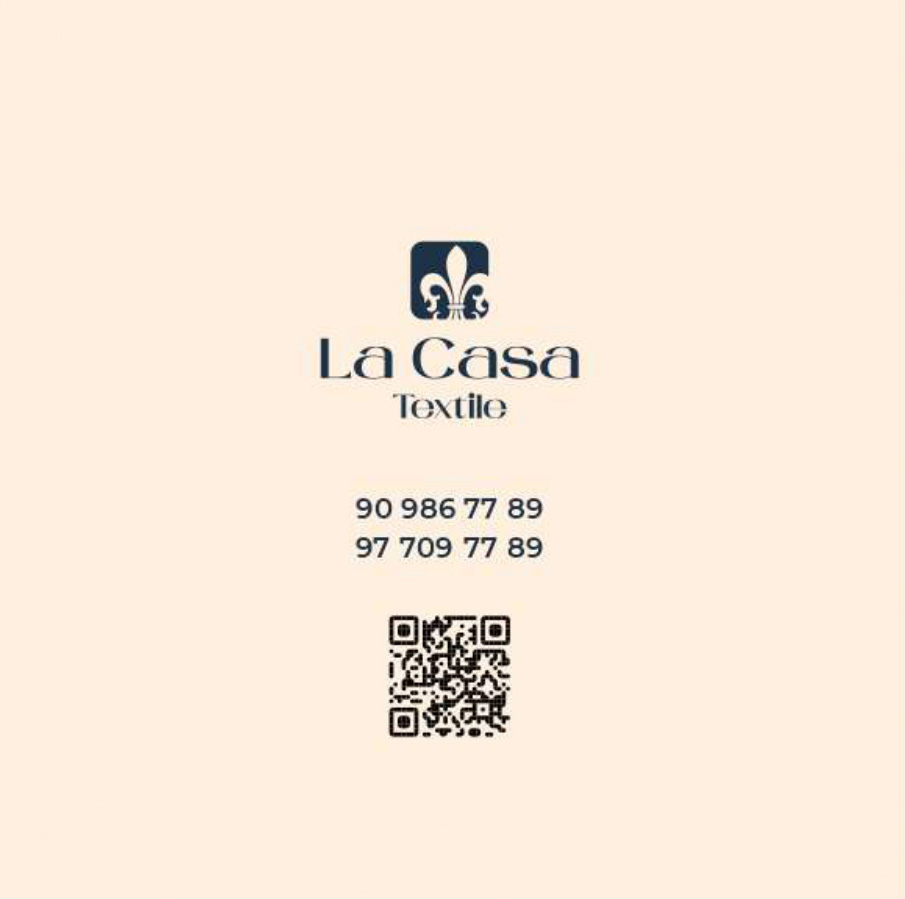
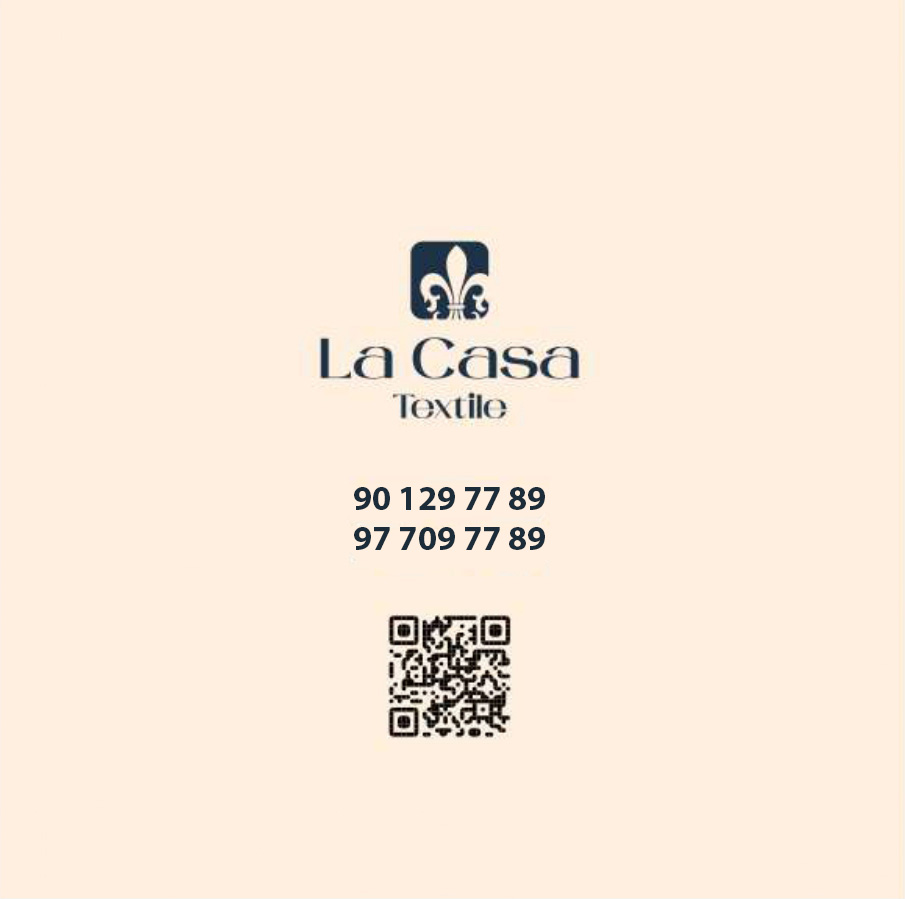
Update footer contacts and socials languages

Changed region(s): [[0.3713, 0.5295, 0.6188, 0.6229]]

diff --git a/lib/i18n/ru.ts b/lib/i18n/ru.ts
@@ -54,7 +54,7 @@ cornices_text:
   "Мы создаём карнизы и жалюзи на заказ, учитывая архитектуру помещения, стиль интерьера и требования к освещению. Карнизы изготавливаются по индивидуальным размерам, обеспечивают бесшумное скольжение штор и становятся аккуратной частью декора. Жалюзи подбираем по фактуре, плотности и дизайну — от классических моделей до современных решений, которые надёжно защищают от света и подчёркивают атмосферу пространства.",
 
 cornices_btn_collection: "Посмотреть коллекцию тканей",
-entertainment_title: "Премиальные решения для развлечений и отдыха",
+entertainment_title: "Премиальные решения для интерьера",
 
 entertainment_text:
   "Оцените стильные и функциональные интерьерные решения, создающие уют и атмосферу в жилых и коммерческих пространствах.",
@@ -64,18 +64,18 @@ clients_text:
   "Мы создаём текстиль для премиальных интерьеров: частных домов, резиденций, квартир и современных коммерческих пространств. Клиенты выбирают Textile LaCasa за стиль, аккуратность и высокий уровень сервиса.",
 
 review_1_text:
-  "Заказывали текстиль для гостиной и спальни. Команда LaCasa предложила потрясающий подбор тканей — интерьер преобразился полностью.",
-review_1_author: "Элина Самойлова",
+  "Хочу выразить искреннюю благодарность за профессиональный подход и внимательное отношение. Работа была выполнена качественно, в срок и с учётом всех пожеланий. Очень довольна результатом и с уверенностью рекомендую.",
+review_1_author: "Лобар К.",
 review_1_role: "Частный клиент",
 
 review_2_text:
-  "Очень понравился подход дизайнеров. Все материалы премиальные, монтаж выполнен аккуратно и без спешки. Результат впечатляет.",
-review_2_author: "Олег Миронов",
+  "Большое спасибо за проделанную работу 💗 Всё получилось очень красиво и аккуратно. Комната преобразилась, стала светлой, уютной и наполненной теплом. Каждый раз, когда смотрю, испытываю радость и восхищение результатом 🌸",
+review_2_author: "Дильдора М.",
 review_2_role: "Владелец частного дома",
 
 review_3_text:
-  "Обновляли интерьер студии. LaCasa помогли подобрать плотные шторы, жалюзи и декоративный текстиль. Получилось стильно и уютно.",
-review_3_author: "Камилла Баграмян",
+  "Большое спасибо за отличную работу 🙌 Всё было выполнено аккуратно и профессионально. Всегда доверяю только вам — качество, подход и результат всегда на высоте.",
+review_3_author: "Лазиз С.",
 review_3_role: "Дизайнер интерьеров",
 
 review_4_text:
@@ -90,7 +90,7 @@ review_5_role: "Частный клиент",
 promo_label: "Предложение",
 
 promo_title:
-  "Индивидуальный пошив штор\nсо скидкой 20%",
+  "Индивидуальный пошив штор\nсо скидкой 10%",
 
 promo_text:
   "Закажите выезд дизайнера, подбор тканей и 3D-визуализацию бесплатно. При оформлении заказа на пошив — дарим скидку 20% на весь текстиль.",
@@ -222,7 +222,7 @@ catalog_curtains_title: "Коллекция штор Textile LaCasa",
   hotel_catalog_btn: "Посмотреть весь каталог гостиничной линии",
   flooring_title: "Напольные покрытия Textile LaCasa",
   flooring_subtitle:
-    "Коллекции ковролина, ламината и современных напольных решений для жилых и коммерческих интерьеров.",
+    "Коллекции ковролина, современных напольных решений для жилых и коммерческих интерьеров.",
 
   flooring_collection_title: "Коллекция напольных покрытий",
   flooring_catalog_btn: "Посмотреть весь каталог напольных покрытий",
@@ -232,10 +232,10 @@ catalog_curtains_title: "Коллекция штор Textile LaCasa",
 
   cornices_collection_title: "Коллекция карнизов и жалюзи",
   cornices_catalog_btn: "Посмотреть весь каталог карнизов и жалюзи",
-   textile_floor_title: "Тканевые напольные покрытия Textile LaCasa",
+   textile_floor_title: "Модульные напольные покрытия Textile LaCasa",
   textile_floor_subtitle:
-    "Коллекции ковролина и текстильных напольных покрытий для гостиниц, офисов и коммерческих пространств. Практичные решения, сочетающие комфорт, износостойкость и эстетичный внешний вид.",
-  textile_floor_collection_title: "Коллекция тканевых покрытий",
+    "Коллекции ковролина и модульных напольных покрытий для гостиниц, офисов и коммерческих пространств. Практичные решения, сочетающие комфорт, износостойкость и эстетичный внешний вид.",
+  textile_floor_collection_title: "Коллекция модульных покрытий",
   textile_floor_catalog_btn: "Посмотреть весь каталог покрытий",
 };
 

diff --git a/lib/i18n/en.ts b/lib/i18n/en.ts
@@ -56,7 +56,7 @@ cornices_text:
   "We create custom-made cornices and blinds, taking into account the architecture of the space, interior style, and lighting requirements. Cornices are manufactured to individual sizes, ensure silent curtain movement, and become an elegant part of the décor. Blinds are selected by texture, density, and design — from classic models to modern solutions that reliably protect from light and enhance the atmosphere of the space.",
 
 cornices_btn_collection: "View fabric collection",
-entertainment_title: "Premium Solutions for Leisure and Entertainment",
+entertainment_title: "Premium Solutions for Interior Design",
 
 entertainment_text:
   "Discover stylish and functional interior solutions that create comfort and atmosphere in residential and commercial spaces.",
@@ -66,18 +66,18 @@ clients_text:
   "We create textiles for premium interiors: private houses, residences, apartments, and modern commercial spaces. Clients choose Textile LaCasa for style, precision, and a high level of service.",
 
 review_1_text:
-  "We ordered textiles for the living room and bedroom. The LaCasa team offered an amazing fabric selection — the interior was completely transformed.",
-review_1_author: "Elina Samoilova",
+  "I would like to express my sincere gratitude for the professional approach and attentive service. The work was completed with high quality, on time, and fully met my expectations. I am very satisfied with the result and highly recommend it.",
+review_1_author: "Lobar K.",
 review_1_role: "Private Client",
 
 review_2_text:
-  "We really liked the designers’ approach. All materials are premium, installation was neat and unhurried. The result is impressive.",
-review_2_author: "Oleg Mironov",
+  "Thank you very much for the wonderful work 💗 Everything turned out beautifully and neatly. The room has been transformed — it feels bright, cozy, and full of warmth. Every time I look at it, I feel happy and truly satisfied with the result 🌸",
+review_2_author: "Dildora M.",
 review_2_role: "Private Home Owner",
 
 review_3_text:
-  "We updated a studio interior. LaCasa helped us select dense curtains, blinds, and decorative textiles. It turned out stylish and cozy.",
-review_3_author: "Kamilla Baghramyan",
+  "Thank you very much for the excellent work 🙌 I always trust only you — the quality, approach, and final result are consistently outstanding.",
+review_3_author: "Lazis S.",
 review_3_role: "Interior Designer",
 
 review_4_text:
@@ -92,7 +92,7 @@ review_5_role: "Private Client",
 promo_label: "Offer",
 
 promo_title:
-  "Custom Curtain Tailoring\nwith 20% Discount",
+  "Custom Curtain Tailoring\nwith 10% Discount",
 
 promo_text:
   "Order a designer visit, fabric selection, and 3D visualization for free. When placing an order for tailoring, we give a 20% discount on all textiles.",
@@ -224,7 +224,7 @@ title: "Contact us",
   hotel_catalog_btn: "View the full hotel collection",
   flooring_title: "Textile LaCasa Flooring Collection",
   flooring_subtitle:
-    "Collections of carpet, laminate, and modern flooring solutions for residential and commercial interiors.",
+    "Collections of carpet, modern flooring solutions for residential and commercial interiors.",
 
   flooring_collection_title: "Flooring Collection",
   flooring_catalog_btn: "View the full flooring catalog",
@@ -235,12 +235,12 @@ title: "Contact us",
 
   cornices_collection_title: "Curtain Rods & Blinds Collection",
   cornices_catalog_btn: "View the full catalog of curtain rods and blinds",
-  textile_floor_title: "Textile Floor Coverings by Textile LaCasa",
+  textile_floor_title: "Textile Floor Coverings by LaCasa Textile",
 
   textile_floor_subtitle:
-    "Carpet and textile floor covering collections for hotels, offices, and commercial interiors. Practical solutions combining comfort, durability, and refined design.",
+    "Collections of carpet and modular flooring for hotels, offices, and commercial spaces. Practical solutions that combine comfort, durability, and an aesthetic appearance.",
 
-  textile_floor_collection_title: "Textile Flooring Collection",
+  textile_floor_collection_title: "View Modular Flooring Collection",
 
   textile_floor_catalog_btn: "View Full Flooring Collection",
 };

diff --git a/lib/i18n/tr.ts b/lib/i18n/tr.ts
@@ -56,7 +56,7 @@ cornices_text:
   "Mekânın mimarisini, iç tasarım stilini ve aydınlatma gereksinimlerini dikkate alarak özel üretim korniş ve jaluziler tasarlıyoruz. Kornişler sessiz perde hareketi sağlar ve dekorun zarif bir parçası olur. Jaluziler ise dokusuna, yoğunluğuna ve tasarımına göre seçilir — klasik modellerden, ışığa karşı güvenilir koruma sağlayan modern çözümlere kadar.",
 
 cornices_btn_collection: "Kumaş koleksiyonunu incele",
-entertainment_title: "Eğlence ve Dinlenme İçin Premium Çözümler",
+entertainment_title: "İç Mekânlar için Premium Çözümler",
 
 entertainment_text:
   "Konut ve ticari alanlarda konfor ve atmosfer yaratan şık ve fonksiyonel iç mekân çözümlerini keşfedin.",
@@ -66,18 +66,18 @@ clients_text:
   "Özel evler, rezidanslar, daireler ve modern ticari alanlar için premium tekstil üretiyoruz. Müşterilerimiz Textile LaCasa’yı stil, titizlik ve yüksek hizmet kalitesi için tercih ediyor.",
 
 review_1_text:
-  "Oturma odası ve yatak odası için tekstil siparişi verdik. LaCasa ekibi harika bir kumaş seçimi sundu — iç mekân tamamen değişti.",
-review_1_author: "Elina Samoilova",
+  "Profesyonel yaklaşım ve ilgili hizmet için içten teşekkür ederim. Çalışma kaliteli, zamanında ve tüm beklentilerimi karşılayacak şekilde tamamlandı. Sonuçtan çok memnunum ve gönül rahatlığıyla tavsiye ederim.",
+review_1_author: "Lobar K.",
 review_1_role: "Özel Müşteri",
 
 review_2_text:
-  "Tasarımcıların yaklaşımını çok beğendik. Tüm malzemeler premium, montaj özenliydi. Sonuç etkileyici.",
-review_2_author: "Oleg Mironov",
+  "Yapılan çalışma için çok teşekkür ederim 💗 Her şey çok güzel ve özenli oldu. Oda tamamen değişti — aydınlık, sıcak ve huzurlu bir atmosfere kavuştu. Sonuca her baktığımda mutluluk ve memnuniyet hissediyorum 🌸",
+review_2_author: "Dildora M.",
 review_2_role: "Özel Ev Sahibi",
 
 review_3_text:
-  "Stüdyo iç mekânını yeniledik. LaCasa, kalın perdeler ve jaluziler seçmemize yardımcı oldu. Sonuç çok şık.",
-review_3_author: "Kamilla Baghramyan",
+  "Harika çalışma için çok teşekkür ederim 🙌 Her zaman yalnızca size güveniyorum — kalite, yaklaşım ve sonuç her zaman mükemmel.",
+review_3_author: "Lazis S.",
 review_3_role: "İç Mimar",
 
 review_4_text:
@@ -92,7 +92,7 @@ review_5_role: "Özel Müşteri",
 promo_label: "Teklif",
 
 promo_title:
-  "%20 İndirimle\nÖzel Perde Dikimi",
+  "%10 İndirimle\nÖzel Perde Dikimi",
 
 promo_text:
   "Tasarımcı ziyareti, kumaş seçimi ve 3D görselleştirme ücretsizdir. Perde dikimi siparişi verdiğinizde tüm tekstil ürünlerinde %20 indirim sunuyoruz.",
@@ -226,7 +226,7 @@ title: "Bizimle iletişime geçin",
   hotel_catalog_btn: "Tüm otel koleksiyonunu görüntüle",
    flooring_title: "Textile LaCasa Zemin Kaplamaları",
   flooring_subtitle:
-    "Konut ve ticari mekanlar için halı, laminat ve modern zemin kaplama koleksiyonları.",
+    "Konut ve ticari mekanlar için halı, modern zemin kaplama koleksiyonları.",
 
   flooring_collection_title: "Zemin Kaplama Koleksiyonu",
   flooring_catalog_btn: "Tüm zemin kaplama kataloğunu görüntüle",
@@ -237,9 +237,9 @@ title: "Bizimle iletişime geçin",
 
   cornices_collection_title: "Korniş ve Jaluzi Koleksiyonu",
   cornices_catalog_btn: "Korniş ve jaluzi kataloğunu görüntüle",
-  textile_floor_title: "Textile LaCasa Tekstil Zemin Kaplamaları",
+  textile_floor_title: "LaCasa Textile – Tekstil Zemin Kaplamaları",
   textile_floor_subtitle:
-    "Oteller, ofisler ve ticari alanlar için halı ve tekstil zemin kaplama koleksiyonları. Konfor, dayanıklılık ve estetiği bir araya getiren çözümler.",
-  textile_floor_collection_title: "Tekstil Zemin Kaplama Koleksiyonu",
+    "Otel, ofis ve ticari alanlar için halı ve modüler zemin kaplamaları koleksiyonları. Konforu, dayanıklılığı ve estetik görünümü bir araya getiren pratik çözümler.",
+  textile_floor_collection_title: "Modüler Zemin Kaplamaları Koleksiyonu",
   textile_floor_catalog_btn: "Tüm zemin kaplama kataloğunu görüntüle",
 };

diff --git a/lib/i18n/uz.ts b/lib/i18n/uz.ts
@@ -56,7 +56,7 @@ cornices_text:
   "Biz xonaning arxitekturasi, interyer uslubi va yoritish talablarini inobatga olgan holda karniz va jalyuzlarni buyurtma asosida tayyorlaymiz. Karnizlar individual o‘lchamlarda ishlab chiqariladi, pardalarning jim siljishini ta’minlaydi va dekorning nafis qismiga aylanadi. Jalyuzlar esa faktura, zichlik va dizayn bo‘yicha tanlanadi — klassik modellaridan tortib, yorug‘likdan ishonchli himoya qiluvchi zamonaviy yechimlargacha.",
 
 cornices_btn_collection: "Mato kolleksiyasini ko‘rish",
-entertainment_title: "Dam olish va hordiq uchun premium yechimlar",
+entertainment_title: "Premium interyer yechimlari",
 
 entertainment_text:
   "Yashash va tijorat makonlarida qulaylik va muhit yaratadigan zamonaviy va funksional interyer yechimlarini baholang.",
@@ -66,13 +66,13 @@ clients_text:
   "Biz premium interyerlar uchun tekstil yaratamiz: xususiy uylar, rezidensiyalar, kvartiralar va zamonaviy tijorat makonlari. Mijozlar Textile LaCasa’ni uslub, aniqlik va yuqori xizmat darajasi uchun tanlaydi.",
 
 review_1_text:
-  "Mehmonxona va yotoqxona uchun tekstil buyurtma qildik. LaCasa jamoasi ajoyib mato tanlovini taklif qildi — interyer butunlay o‘zgardi.",
-review_1_author: "Elina Samoylova",
+  "Professional yondashuv va e’tiborli xizmat uchun samimiy minnatdorchilik bildiraman. Ish sifatli, o‘z vaqtida va barcha istaklarim inobatga olingan holda bajarildi. Natijadan juda mamnunman va ishonch bilan tavsiya qilaman.",
+review_1_author: "Lobar K.",
 review_1_role: "Xususiy mijoz",
 
 review_2_text:
-  "Dizaynerlarning yondashuvi juda yoqdi. Barcha materiallar premium, montaj esa puxta va shoshilmasdan bajarildi. Natija juda ta’sirli.",
-review_2_author: "Oleg Mironov",
+  "Bajarilgan ish uchun katta rahmat 💗 Hammasi juda chiroyli va ozoda chiqdi. Xona butunlay o‘zgardi — yorug‘, shinam va iliq muhitga ega bo‘ldi. Natijani ko‘rganimda har safar quvonch va mamnuniyat his qilaman 🌸",
+review_2_author: "Dildora M.",
 review_2_role: "Xususiy uy egasi",
 
 review_3_text:
@@ -92,7 +92,7 @@ review_5_role: "Xususiy mijoz",
 promo_label: "Taklif",
 
 promo_title:
-  "Individual parda tikish\n20% chegirma bilan",
+  "Individual parda tikish\n10% chegirma bilan",
 
 promo_text:
   "Dizayner chiqishi, mato tanlash va 3D-vizualizatsiya bepul. Tikuv buyurtmasi berilganda — barcha tekstil mahsulotlariga 20% chegirma taqdim etiladi.",
@@ -224,7 +224,7 @@ catalog_curtains_title: "Textile LaCasa Pardalar Kolleksiyasi",
   hotel_catalog_btn: "Mehmonxona katalogini ko‘rish",
   flooring_title: "Textile LaCasa Pol Qoplamalari",
   flooring_subtitle:
-    "Uy va tijorat interyerlari uchun kovrolin, laminat va zamonaviy pol qoplamalari kolleksiyalari.",
+    "Uy va tijorat interyerlari uchun kovrolin, zamonaviy pol qoplamalari kolleksiyalari.",
 
   flooring_collection_title: "Pol qoplamalari kolleksiyasi",
   flooring_catalog_btn: "Pol qoplamalari katalogini ko‘rish",
@@ -235,12 +235,12 @@ catalog_curtains_title: "Textile LaCasa Pardalar Kolleksiyasi",
 
   cornices_collection_title: "Karniz va jalyuzi kolleksiyasi",
   cornices_catalog_btn: "Karniz va jalyuzilar katalogini ko‘rish",
-  textile_floor_title: "Textile LaCasa matoli pol qoplamalari",
+  textile_floor_title: "LaCasa Textile — to‘qimachilik pol qoplamalari",
 
   textile_floor_subtitle:
-    "Mehmonxonalar, ofislar va tijorat interyerlari uchun kovrolin va matoli pol qoplamalari kolleksiyasi. Qulaylik, mustahkamlik va estetik dizayn uyg‘unligi.",
+    "Mehmonxonalar, ofislar va tijorat makonlari uchun kovrolin va modulli pol qoplamalari kolleksiyalari. Qulaylik, chidamlilik va estetik ko‘rinishni uyg‘unlashtirgan amaliy yechimlar.",
 
-  textile_floor_collection_title: "Matoli pol qoplamalari kolleksiyasi",
+  textile_floor_collection_title: "Modulli pol qoplamalari kolleksiyasi",
 
   textile_floor_catalog_btn: "Barcha qoplamalar katalogini ko‘rish",
 

diff --git a/components/Footer.tsx b/components/Footer.tsx
@@ -36,15 +36,27 @@ export default function Footer() {
           </h3>
           <ul className="space-y-2 text-sm">
             <li>
-              <a href="#" className="hover:text-white">
+              <a
+                href="https://www.instagram.com/lacasa.textile?igsh=am1xMDBuYmp0d3Nv&utm_source=qr"
+                target="_blank"
+                rel="noopener noreferrer"
+                className="hover:text-white"
+              >
                 Instagram
               </a>
             </li>
+
             <li>
-              <a href="#" className="hover:text-white">
+              <a
+                href="https://t.me/Dinosh0109"
+                target="_blank"
+                rel="noopener noreferrer"
+                className="hover:text-white"
+              >
                 Telegram
               </a>
             </li>
+
             <li>
               <a href="#" className="hover:text-white">
                 Facebook
@@ -61,15 +73,19 @@ export default function Footer() {
 
           <p className="text-sm mb-2">{t(lang, "footer_contacts")}:</p>
 
-          <p className="text-sm">
-            <a href="tel:+998977097789" className="hover:text-white">
+          <div className="text-sm space-y-1">
+            <a href="tel:+998977097789" className="block hover:text-white">
               +998 97 709 77 89
             </a>
-          </p>
+
+            <a href="tel:+998901297789" className="block hover:text-white">
+              +998 90 129 77 89
+            </a>
+          </div>
 
           <p className="mt-2 text-sm">
             <a href="mailto:info@lacasa.uz" className="hover:text-white">
-              info@lacasa.uz
+              Textilelacasa@gmail.com
             </a>
           </p>
 

diff --git a/components/ContactsSection.tsx b/components/ContactsSection.tsx
@@ -110,7 +110,7 @@ export default function ContactsSection() {
               blank: true,
             },
             {
-              href: "mailto:lacasatextile@gmail.com",
+              href: "mailto:Textilelacasa@gmail.com",
               label: "Email",
               icon: <IconMail />,
             },
@@ -147,7 +147,7 @@ export default function ContactsSection() {
             <IconPhone /> +998 97 709 77 89
           </p>
           <p className="flex justify-center gap-2">
-            <IconMail /> lacasatextile@gmail.com
+            <IconMail /> Textilelacasa@gmail.com
           </p>
           <p className="flex justify-center gap-2">
             <IconClock /> Пн–Вс, 10:00 — 19:00

diff --git a/app/flooring/page.tsx b/app/flooring/page.tsx
@@ -32,7 +32,7 @@ export default function FlooringPage() {
           transition={{ duration: 0.7 }}
           className="text-5xl font-serif text-white font-semibold drop-shadow-2xl"
         >
-          {t(lang, "catalog_floor_title:")}
+          {t(lang, "flooring_collection_title")}
         </motion.h1>
 
         <motion.p

diff --git a/app/catalog/CatalogClient.tsx b/app/catalog/CatalogClient.tsx
@@ -5,7 +5,7 @@ import { t } from "@/lib/i18n";
 type Lang = "ru" | "en" | "uz" | "tr";
 
 type Props = {
-  lang: string; // ⚠ принимаем ЛЮБУЮ строку
+  lang: string; //
 };
 
 // 🔒 защита языка
